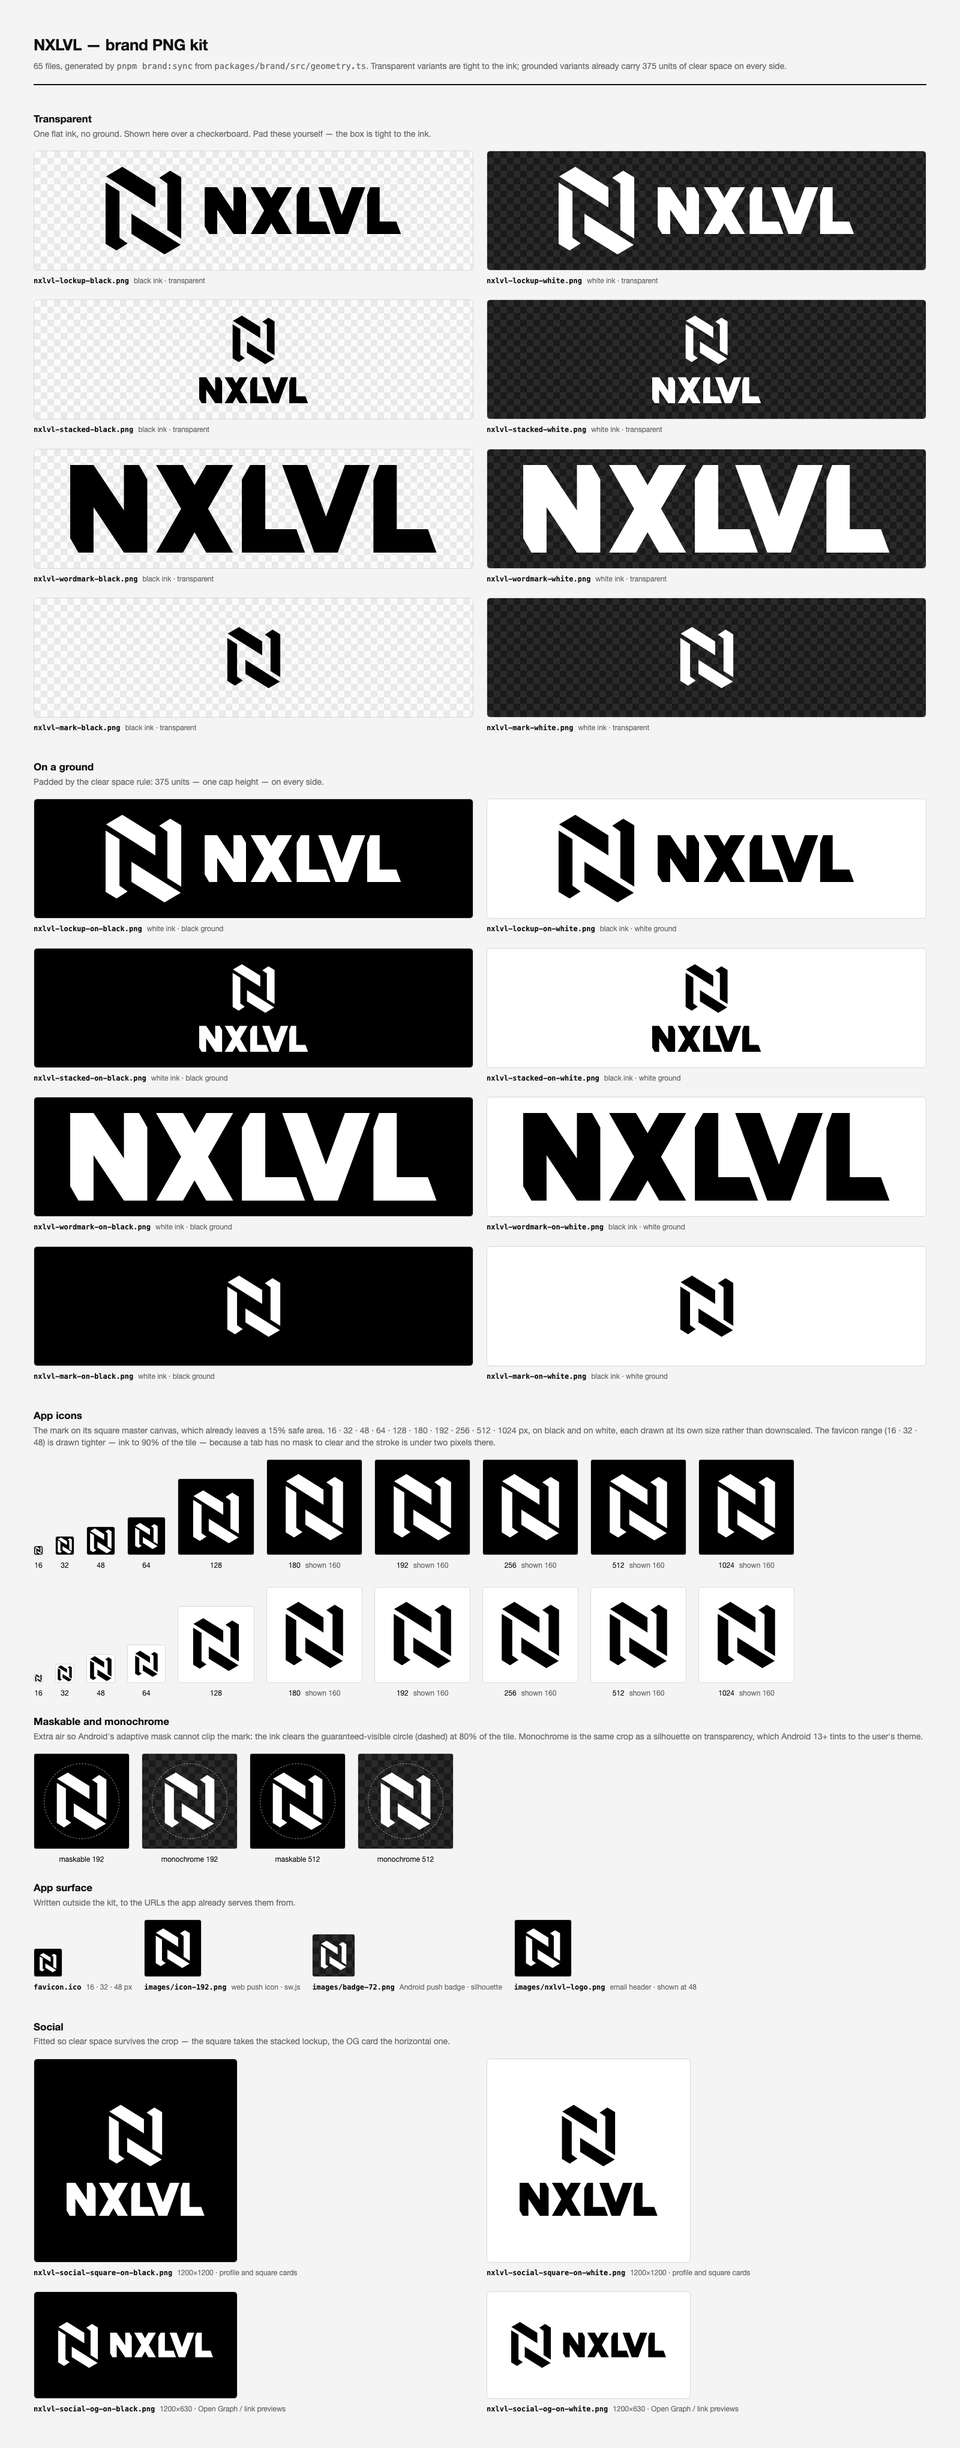
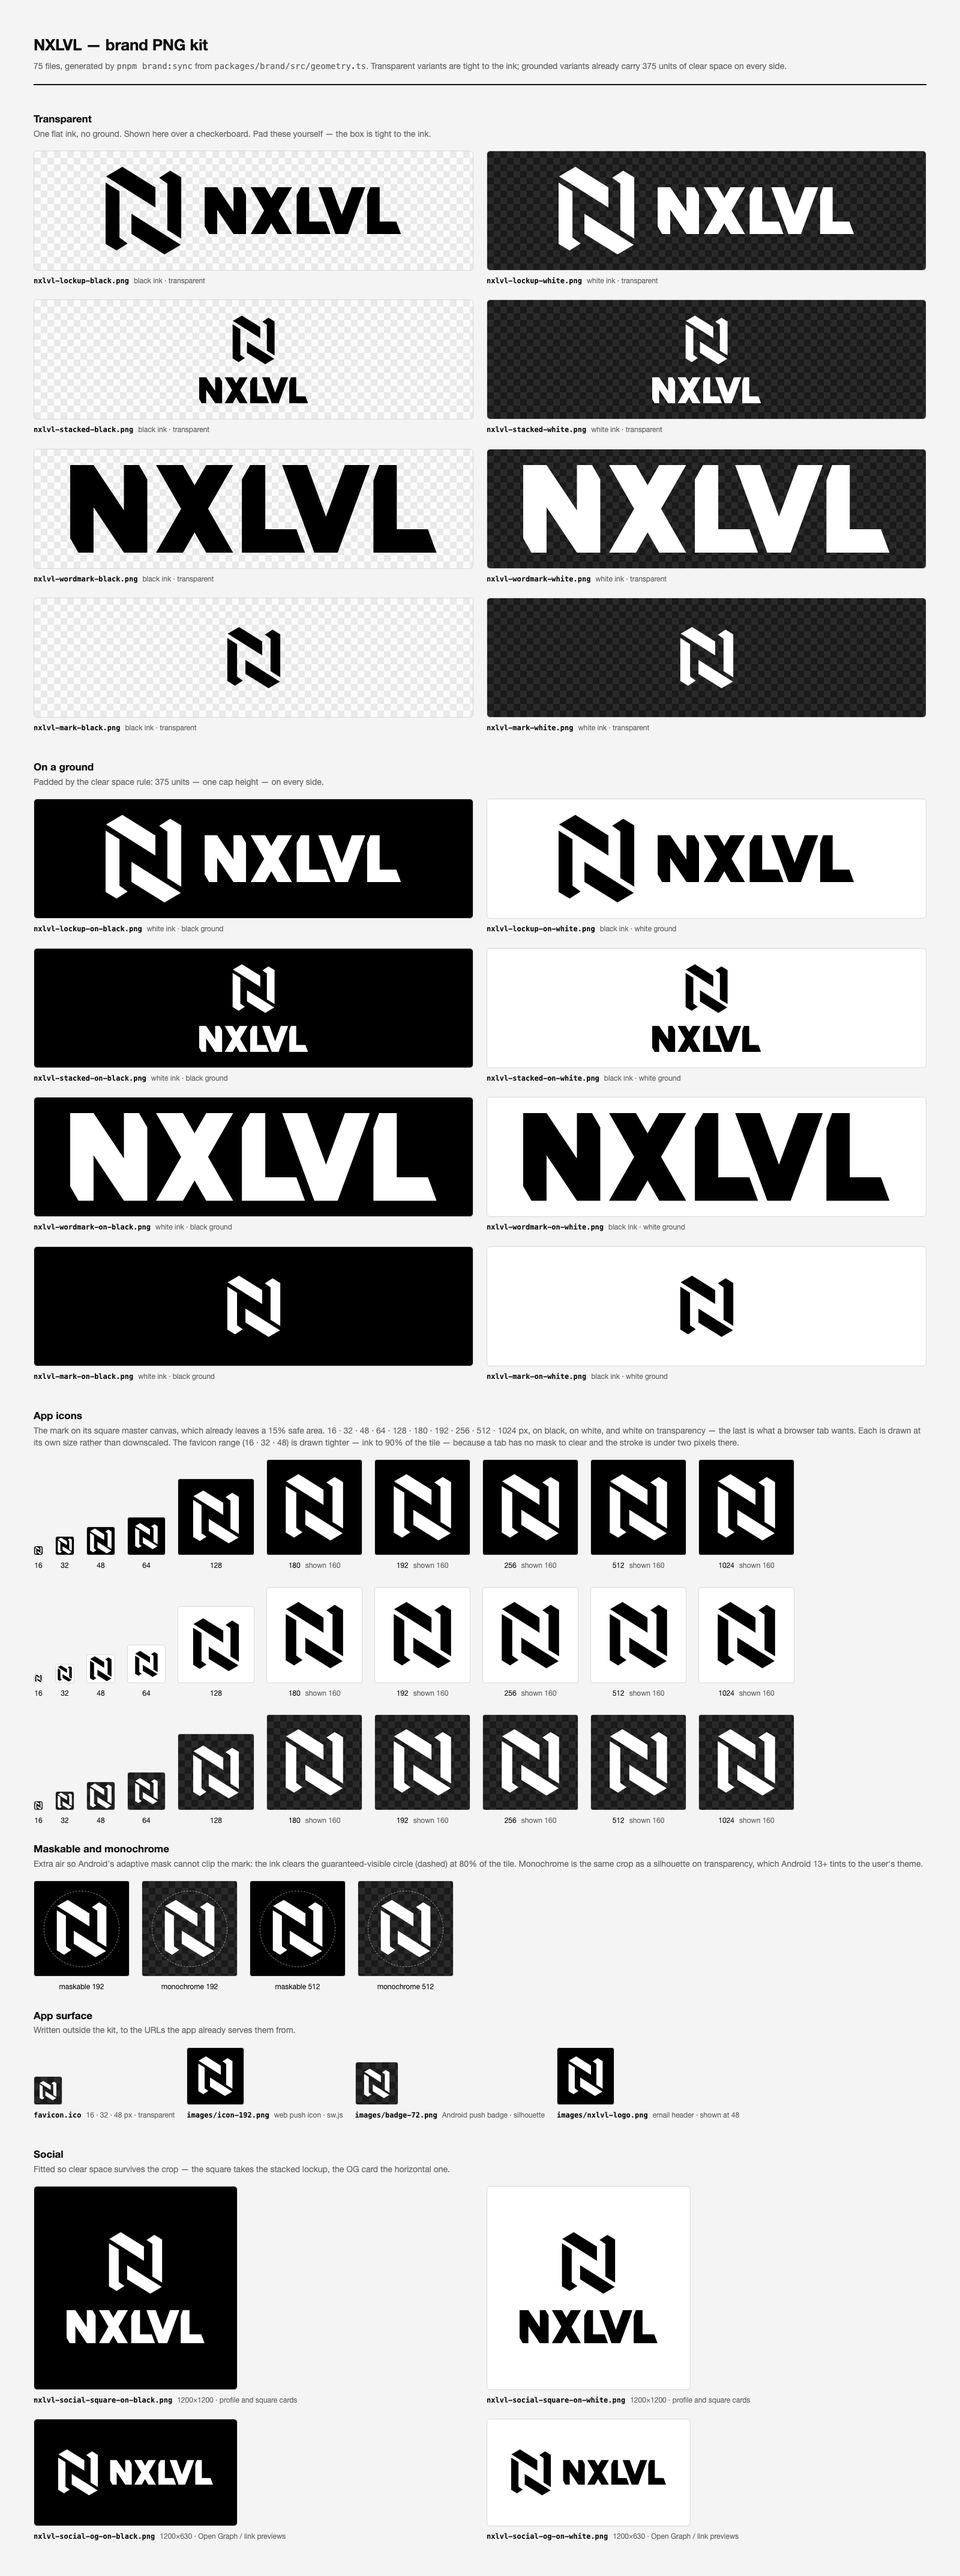
chore: publish brand kit from nxlvl@2d412c8

diff --git a/BRAND-GUIDELINES.md b/BRAND-GUIDELINES.md
@@ -64,8 +64,10 @@ where the name is supplied by something else on screen.
 
 ## Icons
 
-`png/icon/` covers the ladder from 16 px to 1024 px, on black and on white, each
-size drawn at its own scale rather than downscaled from one master.
+`png/icon/` covers the ladder from 16 px to 1024 px in three treatments — on
+black, on white, and `-white` for white ink on transparency — each size drawn at
+its own scale rather than downscaled from one master. Reach for the transparent
+one wherever something else paints the ground, such as a browser tab.
 
 Two special purposes sit alongside them, and they are not interchangeable:
 
@@ -74,7 +76,8 @@ Two special purposes sit alongside them, and they are not interchangeable:
 - **`nxlvl-icon-monochrome-*.png`** — the same crop as a silhouette on
   transparency, for the themed icons Android 13+ tints itself.
 
-`favicon.ico` bundles 16, 32 and 48 px in one file.
+`favicon.ico` bundles 16, 32 and 48 px in one file, white ink on transparency —
+the browser's own tab strip is the ground.
 
 ## The module
 

diff --git a/README.md b/README.md
@@ -5,7 +5,7 @@
 # NXLVL brand assets
 
 The logo, wordmark and icon set for **NXLVL**, an esports tournament platform.
-Everything here is drawn from one geometry module, so the SVGs, the 61 PNGs and
+Everything here is drawn from one geometry module, so the SVGs, the 71 PNGs and
 every number in [BRAND-GUIDELINES.md](BRAND-GUIDELINES.md) are guaranteed to agree with each other.
 
 > **Using the NXLVL name or logo?** Read [what you may and may not do](#permissions)
